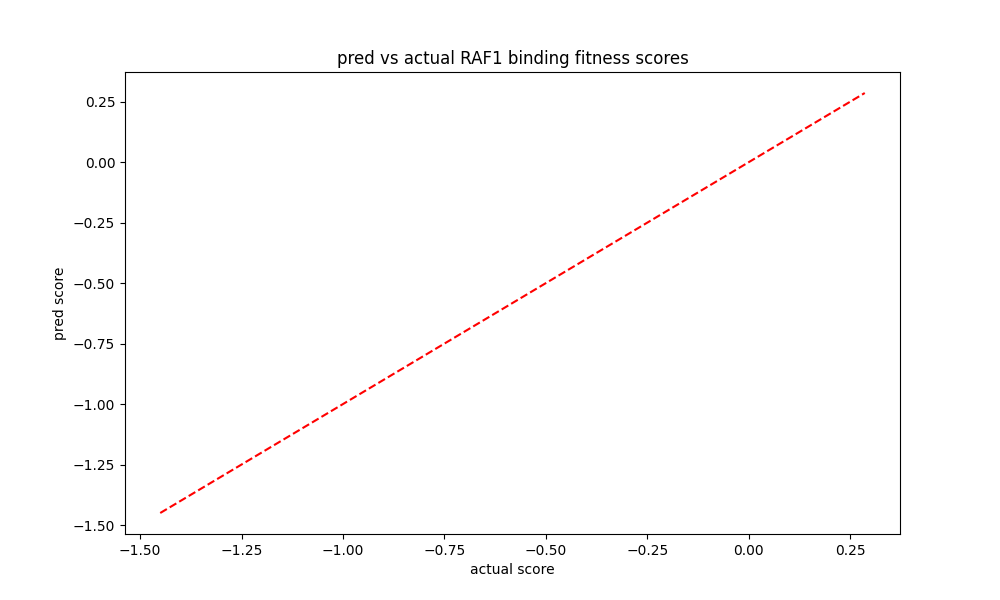
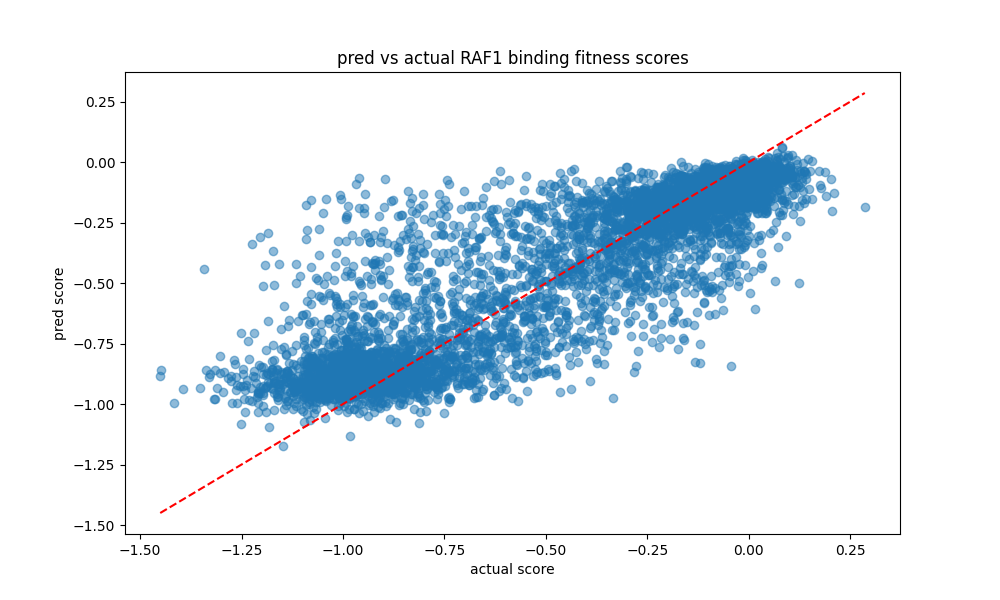
final edit to logs/readme

Changed region(s): [[0.155, 0.24, 0.868, 0.75]]

diff --git a/README.md b/README.md
@@ -17,3 +17,50 @@ for binding fitness data, all partners seem to present a bimodal distribution, w
 * consider additional features that might explain bimodality (protein structure info, physicochemical properties, etc.)
 * block as categorical feature?
 * block 1 weights different in model architecture?
+
+## choosing a "partner"
+i used RAF1RDB as a starting point. this was kind of an arbitrary choice, but also because disruptions in the KRAS-RAF1 are relatively well-documented so in case i decide to probe this path further, there's some helpful literature. 
+
+## addressing a "bug"
+or my just my lack of look at the full dataset. during model training, at every 20th epoch, loss and MSE would be NaN. was my learning rate set too high, causing model outputs to become inf/nan and thus loss of function? were there outliers in the data, somehow causing my model to break? 
+
+i realized the solution was simple (and an oversight on my part): i forgot the data included double mutants (i.e. not just `p.Val125Leu` but also p.`Glu63Lys;Leu113Phe`). the fix was to modify the regex function to handle double mutants. i decided to keep the double mutants, even if that meant refactoring what was already written, since most of the data was actually double mutation data, and it seemed like the most biologically meaningful approach. the following changes were made:
+
+1. rewrote the parser to extract the wt, pos, and mut details from a second mutation, if applicable
+2. fixed-size encoding: reserved two "slots" for mutations, where each slot was encoded with:
+    a. one-hot for WT AA
+    b. one-hot for mutant AA
+    c. normalized position
+    and if there was only one mutation, the second slots was filled with a bunch of zeros (aka "no mutation")
+3. added mutation count feature: single v. double mutants have different impacts on protein function, so adding this as a feature allowed for the model to account for this difference. 
+
+## fin! 
+it ran! here are the results:
+Feature stats: 0.0 2.0 0.07568363315081336 0.2956770909132856
+Target stats: -1.45034831532026 0.285723457825962 -0.45698406900606603 0.39863930934731184
+epoch 20/200, loss: 0.0720, MAE: 0.2089, val loss: 0.0602, val MAE: 0.1870
+epoch 40/200, loss: 0.0574, MAE: 0.1826, val loss: 0.0492, val MAE: 0.1663
+epoch 60/200, loss: 0.0515, MAE: 0.1717, val loss: 0.0461, val MAE: 0.1585
+epoch 80/200, loss: 0.0488, MAE: 0.1673, val loss: 0.0444, val MAE: 0.1547
+epoch 100/200, loss: 0.0465, MAE: 0.1628, val loss: 0.0425, val MAE: 0.1507
+epoch 120/200, loss: 0.0447, MAE: 0.1594, val loss: 0.0419, val MAE: 0.1486
+epoch 140/200, loss: 0.0435, MAE: 0.1576, val loss: 0.0398, val MAE: 0.1438
+epoch 160/200, loss: 0.0418, MAE: 0.1539, val loss: 0.0393, val MAE: 0.1414
+epoch 180/200, loss: 0.0404, MAE: 0.1509, val loss: 0.0380, val MAE: 0.1399
+epoch 200/200, loss: 0.0399, MAE: 0.1506, val loss: 0.0372, val MAE: 0.1376
+test MAE: 0.1376
+Feature stats: 0.0 2.0 0.07568363315081336 0.2956770909132856
+Target stats: -1.45034831532026 0.285723457825962 -0.45698406900606603 0.39863930934731184
+
+## some rough conclusions and interpretations
+* test MAE of 0.1376 means that, on average, my model's predictions are off by about 0.14 units of binding fitness score
+* both the training and validation loss/MAE decrease steadily, which is a good sign for training that's stable
+* validation and test MAE are very close, which means the model's performance on the test set is similar to its performance on the validation set, indicating that it's learning patterns and not just memorizing the validation set (or overfitting)
+* relatively low MAE suggests the model can capture meaningful patterns in how mutations (single and double) affect KRAS-RAF1RDB binding
+
+## further improvements
+1. model complexity: i did one of the more simple sequential NN architectures (linear layers - reLU activations - dropout), but i could probably improve performance by experimenting with more complex architectures
+2. feature importance: look into which features (positions, AAs, mutation count) are most influential (maybe using SHAP to quantify the contribution of each feature to the prediction)
+3. error analysis: which mutants have the largest errors (i.e. positional, double mutants, etc.)?
+4. biological validation: compare known disruptive KRAS mutations vs. those that are just benign with the predictions of the model
+5. model extensions: add additional features (i.e. structural/biophysical properties)
